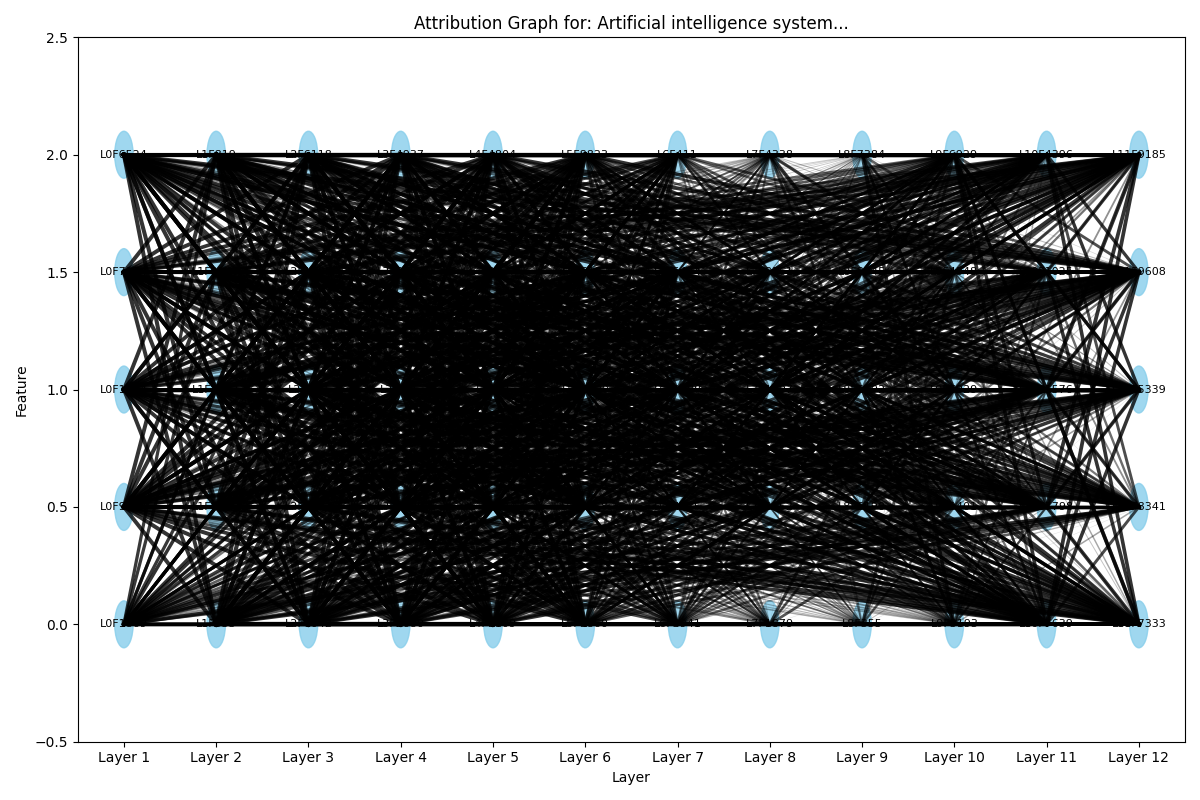
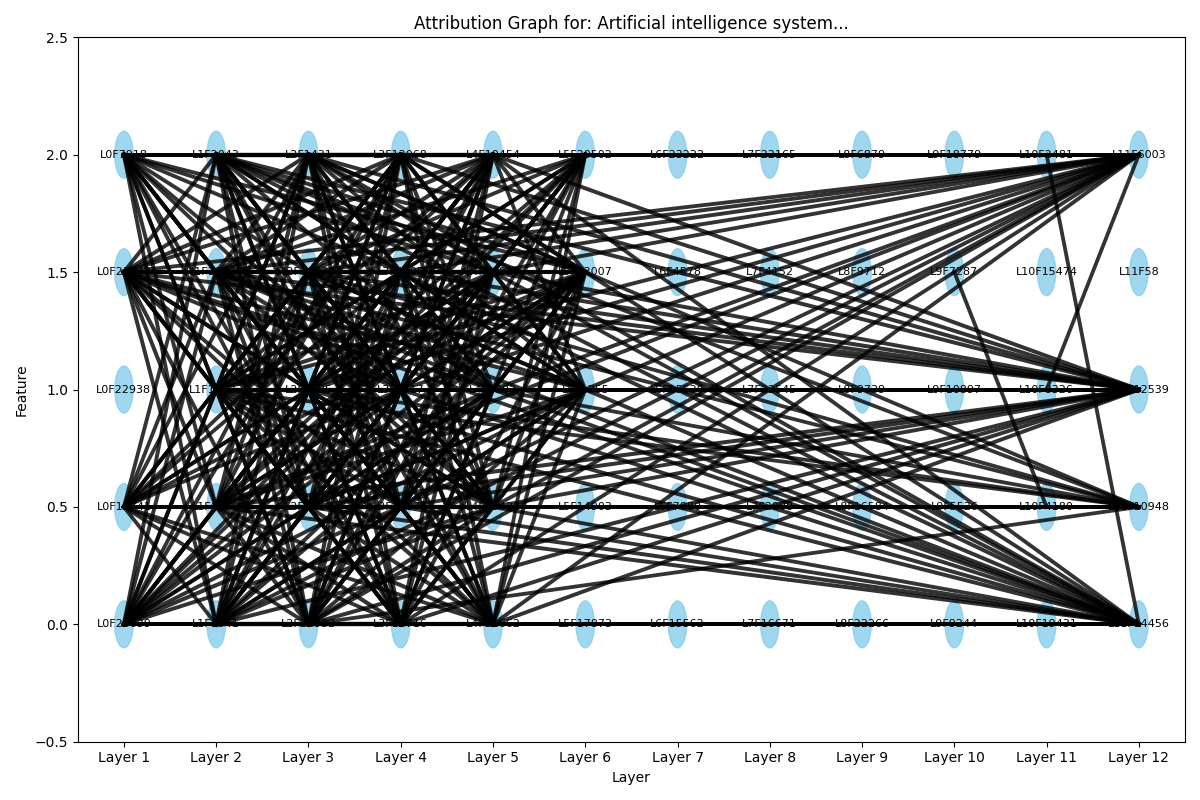
Adjusting parameters

diff --git a/example.py b/example.py
@@ -26,7 +26,7 @@ def main():
     # Initialize the cross-layer transcoder
     transcoder = OpenCrossLayerTranscoder(
         model_name="gpt2",  # GPT-2 Small
-        num_features=10000,   # Number of interpretable features
+        num_features=24576,   # Number of interpretable features
         device=device
     )
     
@@ -312,7 +312,7 @@ def main():
     for i, text in enumerate(test_texts):
         fig = transcoder.create_attribution_graph(
             text=text,
-            threshold=0.1,
+            threshold=0.9,
             save_path=f'visualizations/attribution_graph_{i+1}.png'
         )
         plt.close(fig)

diff --git a/open_cross_layer_transcoder.py b/open_cross_layer_transcoder.py
@@ -251,7 +251,7 @@ class OpenCrossLayerTranscoder(nn.Module):
                         reconstruction_loss += recon_loss
                         
                         # Sparsity loss (L1 regularization on features)
-                        l1_loss = 0.01 * torch.mean(torch.abs(features))
+                        l1_loss = 0.1 * torch.mean(torch.abs(features))
                         sparsity_loss += l1_loss
                         
                         # Add to total loss
